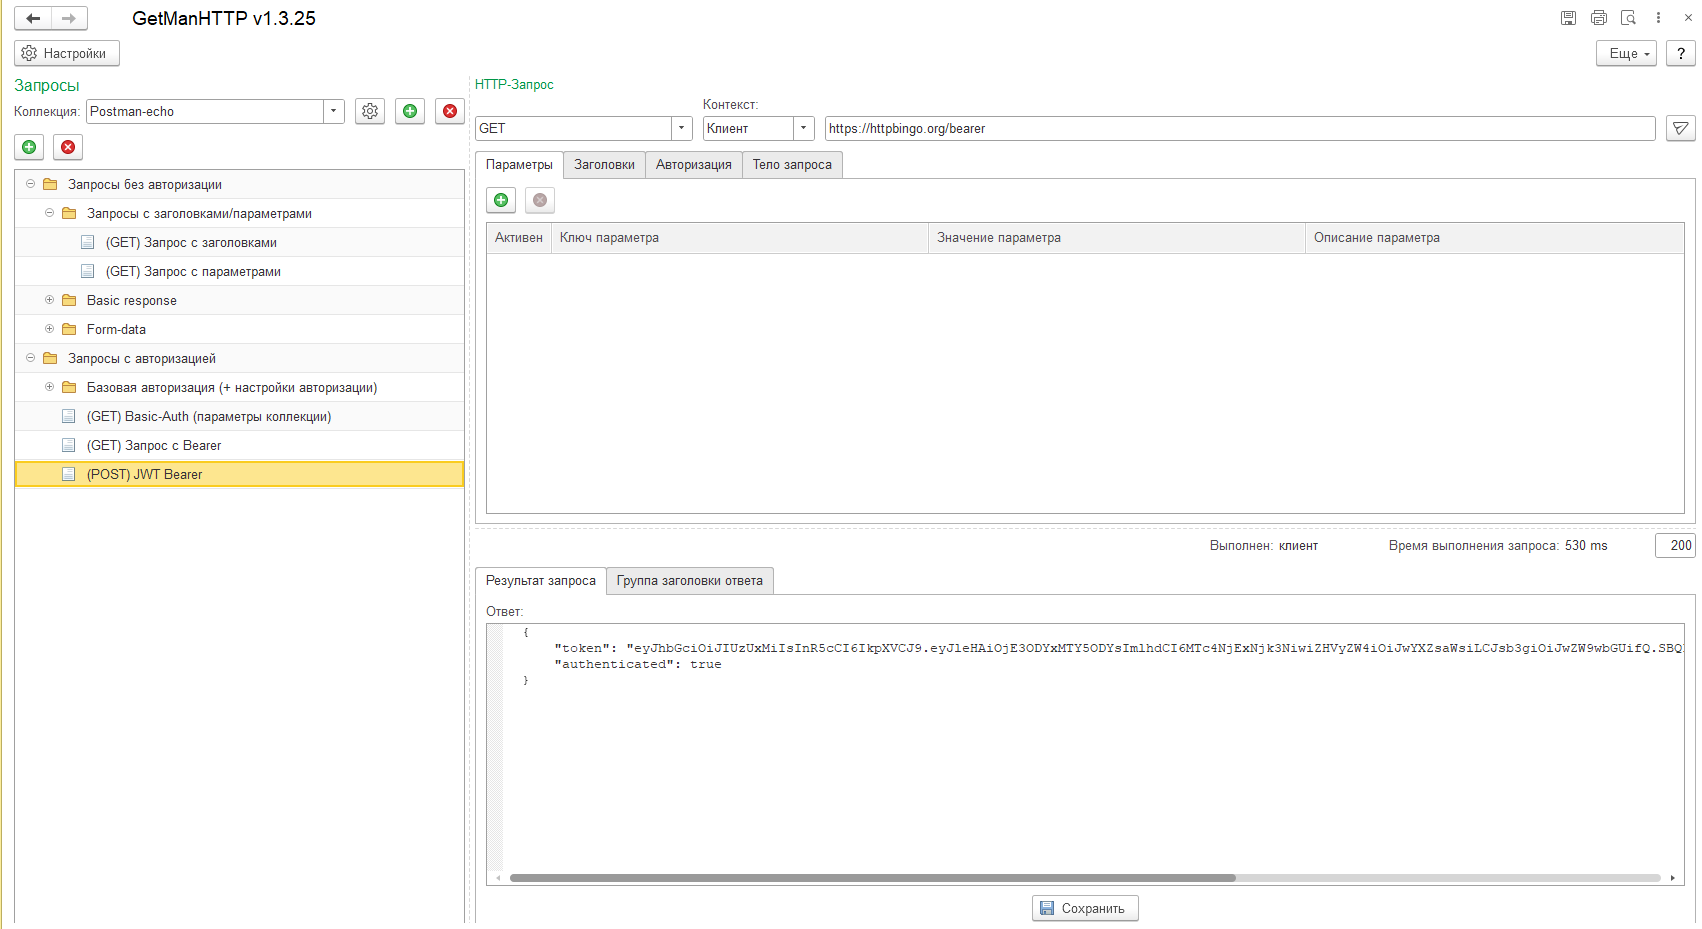
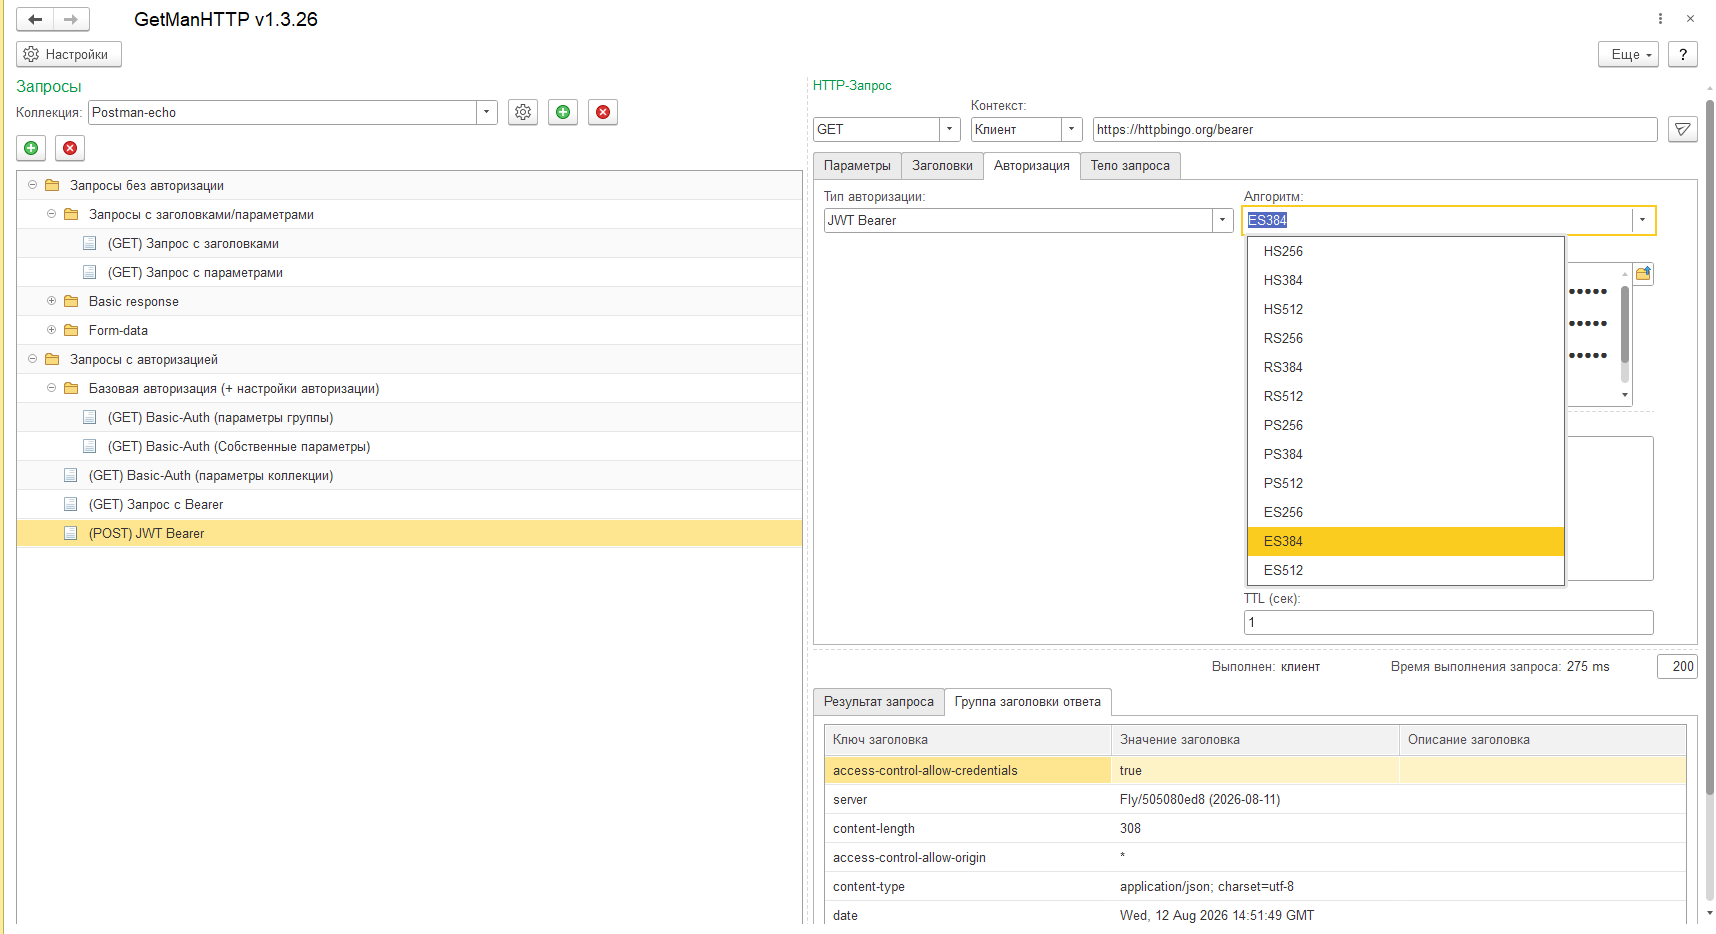
Release 1.3.26: complete JWT Bearer via TokenAccess (RS/PS/ES).
Finish issue #13 with RS*, PS*, ES* signing, Postman-like key fields,
platform TokenAccess for HS*, and refreshed README demo assets.

Closes #13.

diff --git a/src/ExternalDataProcessors/GetManHTTP/Forms/Форма/Help/ru.html b/src/ExternalDataProcessors/GetManHTTP/Forms/Форма/Help/ru.html
@@ -125,7 +125,7 @@
 
 <p>Ошибки и предложения: <a href="https://github.com/LunatikDG/GetManHTTP">репозиторий на GitHub</a>, почта <code>main@lunatikdg.ru</code>, Telegram <a href="https://t.me/LunatikDG">@LunatikDG</a>.</p>
 
-<p><em>Версия обработки: 1.3.25</em></p>
+<p><em>Версия обработки: 1.3.26</em></p>
 
 </body>
 </html>

diff --git a/CHANGELOG.md b/CHANGELOG.md
@@ -24,16 +24,20 @@ Versions correspond to git tags (`v_X_Y_Z` tag → `X.Y.Z` version); see
 
 ## [Unreleased]
 
+## [1.3.26] - 2026-08-12
+
+<a name="changelog-1-3-26-en"></a>
+
 ### Added
 
 - JWT Bearer **RS256**, **RS384**, and **RS512** via platform `ТокенДоступа`
-  (Refs #13): schema field `privateKey` (PEM, unencrypted); HS* still uses
+  (Closes #13): schema field `privateKey` (PEM, unencrypted); HS* still uses
   `secret`. Choice button loads `.pem`/`.txt` into the private key field.
   Postman `jwt` import/export round-trips `privateKey`.
 - JWT Bearer **PS256**, **PS384**, and **PS512** (RSA-PSS) via the same
-  `privateKey` PEM field (Refs #13).
+  `privateKey` PEM field (Closes #13).
 - JWT Bearer **ES256**, **ES384**, and **ES512** (ECDSA) via the same
-  `privateKey` PEM field (Refs #13).
+  `privateKey` PEM field (Closes #13).
 
 ### Changed
 
@@ -41,7 +45,8 @@ Versions correspond to git tags (`v_X_Y_Z` tag → `X.Y.Z` version); see
   RS*/PS*/ES* (Postman-like); both keys remain in the params table for round-trip.
 - JWT Bearer signing migrated from hand-rolled HMAC (`ХешированиеДанных`) to
   platform `ТокенДоступа` / `АлгоритмПодписиТокенаДоступа` for **HS256**,
-  **HS384**, and **HS512** (Refs #13).
+  **HS384**, and **HS512** (Closes #13).
+- Updated README demo GIF and main form screenshot for JWT Bearer.
 
 ## [1.3.25] - 2026-08-07
 
@@ -256,16 +261,20 @@ Versions correspond to git tags (`v_X_Y_Z` tag → `X.Y.Z` version); see
 
 ## [Unreleased]
 
+## [1.3.26] - 2026-08-12
+
+<a name="changelog-1-3-26-ru"></a>
+
 ### Добавлено
 
 - JWT Bearer **RS256**, **RS384** и **RS512** через платформенный `ТокенДоступа`
-  (Refs #13): поле схемы `privateKey` (PEM без пароля); для HS* по-прежнему
+  (Closes #13): поле схемы `privateKey` (PEM без пароля); для HS* по-прежнему
   `secret`. Кнопка выбора загружает `.pem`/`.txt` в поле приватного ключа.
   Импорт/экспорт Postman `jwt` сохраняет `privateKey`.
 - JWT Bearer **PS256**, **PS384** и **PS512** (RSA-PSS) через то же поле
-  `privateKey` (Refs #13).
+  `privateKey` (Closes #13).
 - JWT Bearer **ES256**, **ES384** и **ES512** (ECDSA) через то же поле
-  `privateKey` (Refs #13).
+  `privateKey` (Closes #13).
 
 ### Изменено
 
@@ -274,7 +283,8 @@ Versions correspond to git tags (`v_X_Y_Z` tag → `X.Y.Z` version); see
   round-trip.
 - Подпись JWT Bearer переведена с самописного HMAC (`ХешированиеДанных`) на
   платформенный `ТокенДоступа` / `АлгоритмПодписиТокенаДоступа` для **HS256**,
-  **HS384** и **HS512** (Refs #13).
+  **HS384** и **HS512** (Closes #13).
+- Обновлены demo GIF и скриншот главной формы в README под JWT Bearer.
 
 ## [1.3.25] - 2026-08-07
 
@@ -486,7 +496,8 @@ Versions correspond to git tags (`v_X_Y_Z` tag → `X.Y.Z` version); see
 
 - Разные исправления стабильности.
 
-[Unreleased]: https://github.com/LunatikDG/GetManHTTP/compare/v_1_3_25...HEAD
+[Unreleased]: https://github.com/LunatikDG/GetManHTTP/compare/v_1_3_26...HEAD
+[1.3.26]: https://github.com/LunatikDG/GetManHTTP/compare/v_1_3_25...v_1_3_26
 [1.3.25]: https://github.com/LunatikDG/GetManHTTP/compare/v_1_3_24...v_1_3_25
 [1.3.24]: https://github.com/LunatikDG/GetManHTTP/compare/v_1_3_23...v_1_3_24
 [1.3.23]: https://github.com/LunatikDG/GetManHTTP/compare/v_1_3_22...v_1_3_23

diff --git a/README.md b/README.md
@@ -2,7 +2,7 @@
 
 [![License](https://img.shields.io/badge/license-GPL--3.0-blue)](https://github.com/LunatikDG/GetManHTTP/blob/main/LICENSE.txt)
 [![1C Version](https://img.shields.io/badge/1С-8.3.26%2B-orange)](#)
-[![Release](https://img.shields.io/badge/release-1.3.25-red)](https://github.com/LunatikDG/GetManHTTP/releases)
+[![Release](https://img.shields.io/badge/release-1.3.26-red)](https://github.com/LunatikDG/GetManHTTP/releases)
 [![BSL Lint](https://github.com/LunatikDG/GetManHTTP/actions/workflows/bsl-lint.yml/badge.svg)](https://github.com/LunatikDG/GetManHTTP/actions/workflows/bsl-lint.yml)
 
 <p align="center">
